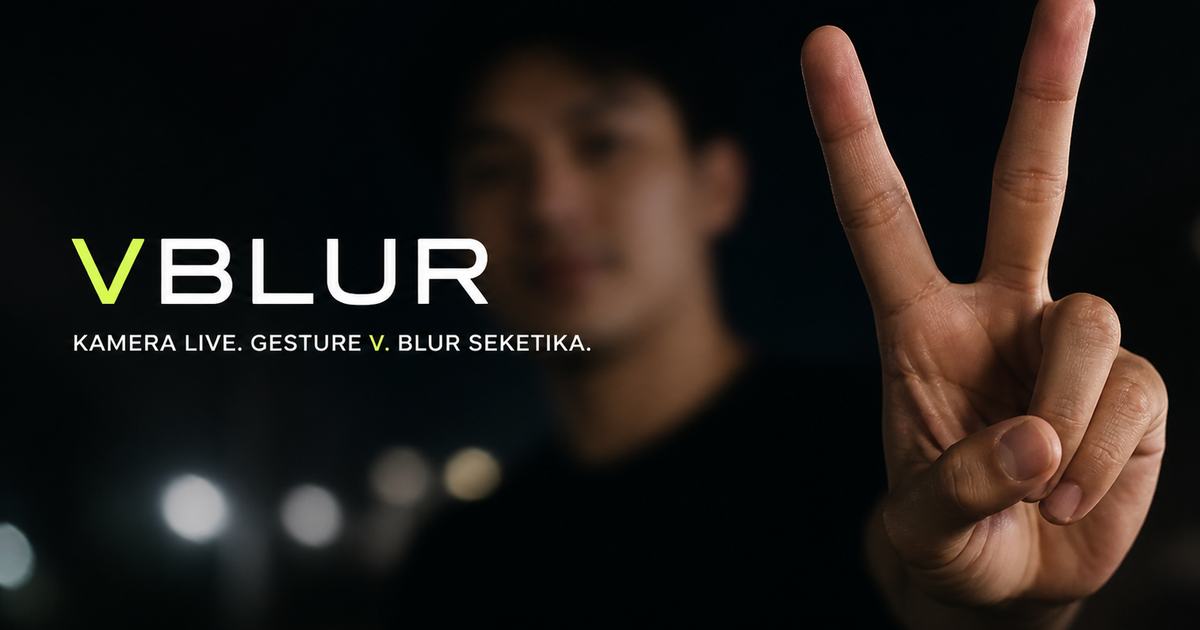
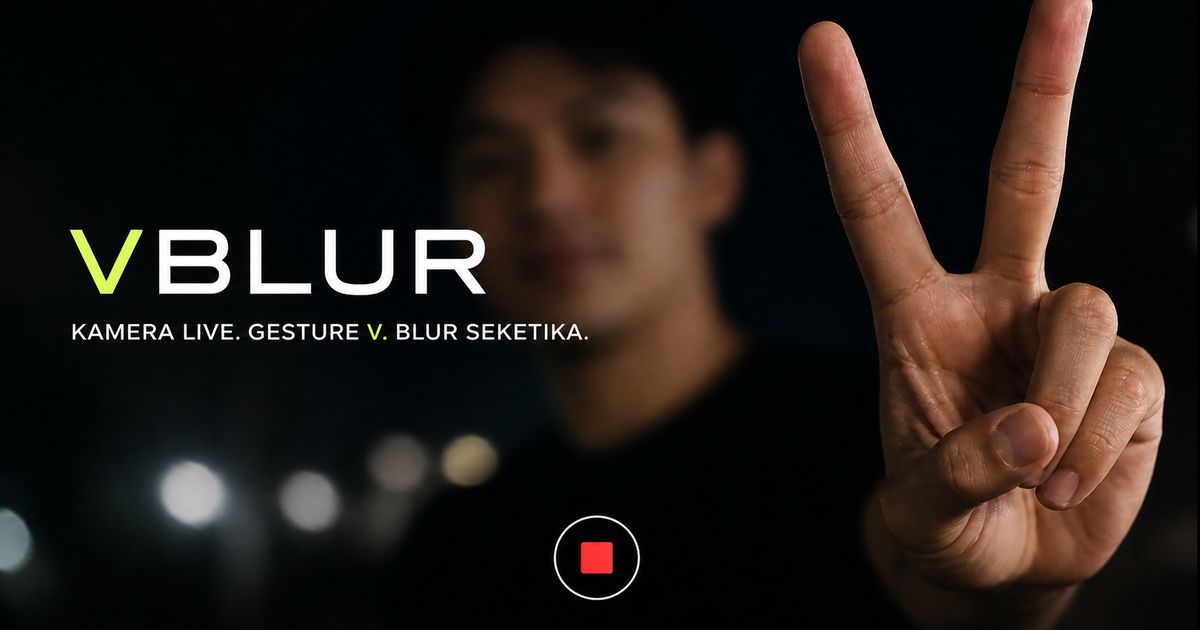
Add camera power control

diff --git a/app/globals.css b/app/globals.css
@@ -51,35 +51,78 @@ button {
   transform: scaleX(-1) scale(1.09);
 }
 
-.camera-retry {
+.camera-toggle {
   position: absolute;
   z-index: 1;
   left: 50%;
-  top: 50%;
-  transform: translate(-50%, -50%);
-  display: flex;
-  align-items: center;
-  flex-direction: column;
-  gap: 12px;
-  width: min(calc(100% - 48px), 380px);
-  padding: 18px 24px;
-  border: 1px solid rgba(255, 255, 255, 0.2);
-  border-radius: 999px;
-  background: rgba(10, 10, 10, 0.7);
-  color: white;
-  text-align: center;
+  bottom: max(26px, calc(env(safe-area-inset-bottom) + 18px));
+  width: 68px;
+  height: 68px;
+  transform: translateX(-50%);
+  display: grid;
+  place-items: center;
+  padding: 0;
+  border: 2px solid rgba(255, 255, 255, 0.94);
+  border-radius: 50%;
+  background: rgba(8, 8, 8, 0.3);
   cursor: pointer;
-  backdrop-filter: blur(12px);
+  box-shadow: 0 2px 18px rgba(0, 0, 0, 0.32);
+  backdrop-filter: blur(8px);
+  transition: transform 160ms ease, opacity 160ms ease;
 }
 
-.camera-retry span {
-  color: rgba(255, 255, 255, 0.62);
-  font-size: 12px;
-  line-height: 1.4;
+.camera-toggle:hover {
+  transform: translateX(-50%) scale(1.05);
+}
+
+.camera-toggle:active {
+  transform: translateX(-50%) scale(0.96);
+}
+
+.camera-toggle > span {
+  width: 48px;
+  height: 48px;
+  border-radius: 50%;
+  background: rgba(255, 255, 255, 0.96);
+  transition: width 180ms ease, height 180ms ease, border-radius 180ms ease,
+    background 180ms ease;
+}
+
+.camera-toggle.is-active > span {
+  width: 28px;
+  height: 28px;
+  border-radius: 7px;
+  background: #ff4f49;
+}
+
+.camera-toggle.is-starting {
+  opacity: 0.55;
+  cursor: wait;
+}
+
+.camera-toggle.is-starting > span {
+  width: 34px;
+  height: 34px;
+  border: 3px solid rgba(255, 255, 255, 0.35);
+  border-top-color: white;
+  background: transparent;
+  animation: camera-loading 700ms linear infinite;
+}
+
+@keyframes camera-loading {
+  to {
+    transform: rotate(360deg);
+  }
 }
 
 @media (prefers-reduced-motion: reduce) {
-  .camera-feed {
+  .camera-feed,
+  .camera-toggle,
+  .camera-toggle > span {
     transition: none;
+  }
+
+  .camera-toggle.is-starting > span {
+    animation: none;
   }
 }

diff --git a/app/page.tsx b/app/page.tsx
@@ -224,6 +224,40 @@ export default function Home() {
     };
   }, []);
 
+  const stopCamera = useCallback(() => {
+    streamRef.current?.getTracks().forEach((track) => track.stop());
+    streamRef.current = null;
+
+    if (videoRef.current) {
+      videoRef.current.srcObject = null;
+    }
+
+    setIsGesture(false);
+    isGestureRef.current = false;
+    matchFramesRef.current = 0;
+    missFramesRef.current = 0;
+    setCameraState("idle");
+    setErrorMessage("");
+  }, []);
+
+  const toggleCamera = () => {
+    if (cameraState === "active") {
+      stopCamera();
+      return;
+    }
+
+    void startCamera();
+  };
+
+  const cameraButtonLabel =
+    cameraState === "active"
+      ? "Matikan kamera"
+      : cameraState === "starting"
+        ? "Kamera sedang dinyalakan"
+        : errorMessage
+          ? `${errorMessage} Coba hidupkan kamera lagi`
+          : "Hidupkan kamera";
+
   return (
     <main className={`camera-app ${isGesture ? "is-blurred" : ""}`}>
       <video
@@ -234,16 +268,16 @@ export default function Home() {
         playsInline
         aria-label="Tampilan kamera live"
       />
-      {cameraState === "error" && (
-        <button
-          className="camera-retry"
-          type="button"
-          onClick={() => void startCamera()}
-        >
-          <span>{errorMessage}</span>
-          Coba lagi
-        </button>
-      )}
+      <button
+        className={`camera-toggle ${cameraState === "active" ? "is-active" : ""} ${cameraState === "starting" ? "is-starting" : ""}`}
+        type="button"
+        onClick={toggleCamera}
+        disabled={cameraState === "starting"}
+        aria-label={cameraButtonLabel}
+        title={cameraButtonLabel}
+      >
+        <span aria-hidden="true" />
+      </button>
     </main>
   );
 }

diff --git a/README.md b/README.md
@@ -15,8 +15,8 @@ npm run dev
 
 Buka `http://localhost:3000`, izinkan akses kamera, lalu tunjukkan gesture V.
 Feed live akan blur selama gesture terlihat dan kembali jernih saat tangan
-diturunkan. Tampilan tidak memiliki overlay dan tidak merekam atau menyimpan
-video maupun foto.
+diturunkan. Tombol bulat di tengah bawah dapat digunakan untuk mematikan atau
+menyalakan kamera. Tampilan tidak merekam atau menyimpan video maupun foto.
 
 ## Menjalankan dengan Docker
 
